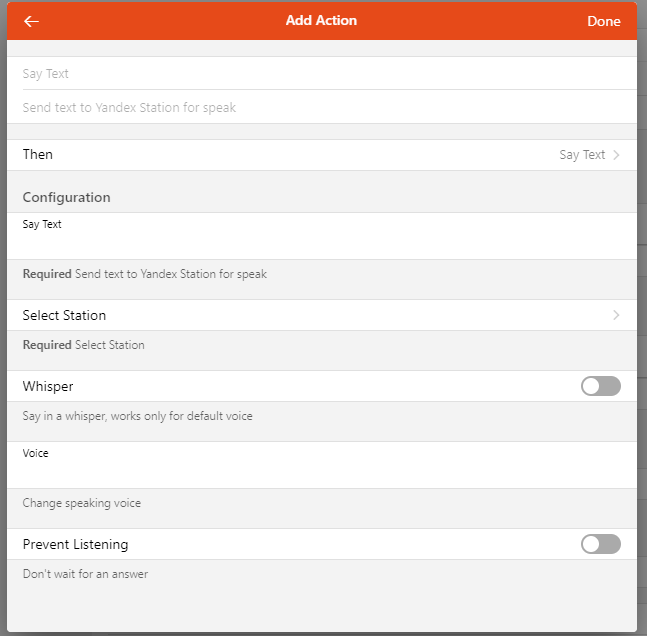
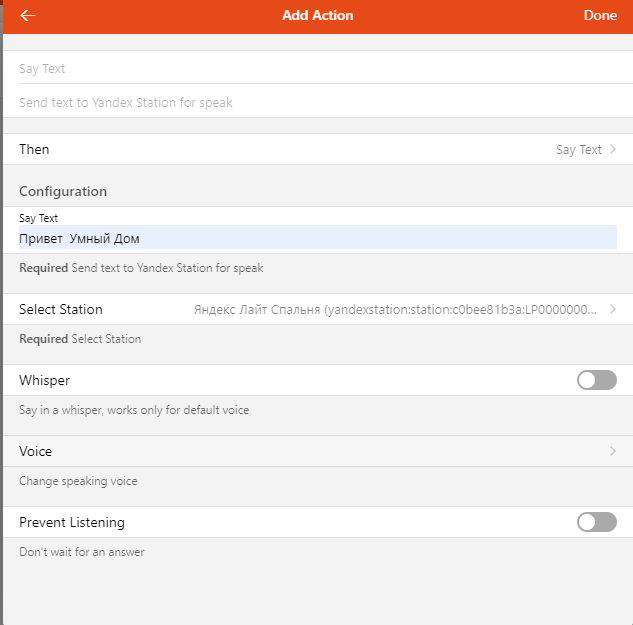
[YandexStation] added ability to select voice from list in rule action 'say text'

Changed region(s): [[0.0, 0.0, 1.0, 1.0], [0.3002, 0.4864, 0.9305, 0.5168]]

diff --git a/README.md b/README.md
@@ -123,13 +123,15 @@ Channel `coverURI` содержит ссылку
 В конструкторе правил в секции _**Then Action**_ при нажатии _**Show All**_ доступен блок _**YandexStation**_ и действия:
 + Say Text - произнести текст
     + Whisper - произнести текст шепотом
-    + Voice - произнести текст голосом (нужно указать код голоса - https://cloud.yandex.com/en-ru/docs/speechkit/tts/voices значение из столбца Voice)
+    + Voice - произнести текст голосом. Голос выбирается из списка доступных голосов (взято отсюда https://github.com/tayanov/Yandex-tts-speechkit-FIX/blob/master/custom_components/yandextts/tts.py) 
     + Prevent Listening - не ждать ответа (возможно, не работает?)
 + Voice Command - выполнить команду
 
 ![](docs/images/then-action-01.png)
 
 ![](docs/images/then-action-02.png)
+
+![](docs/images/then-action-03.png)
 
 ## Thing Actions
 В правилах доступны следующие команды:
